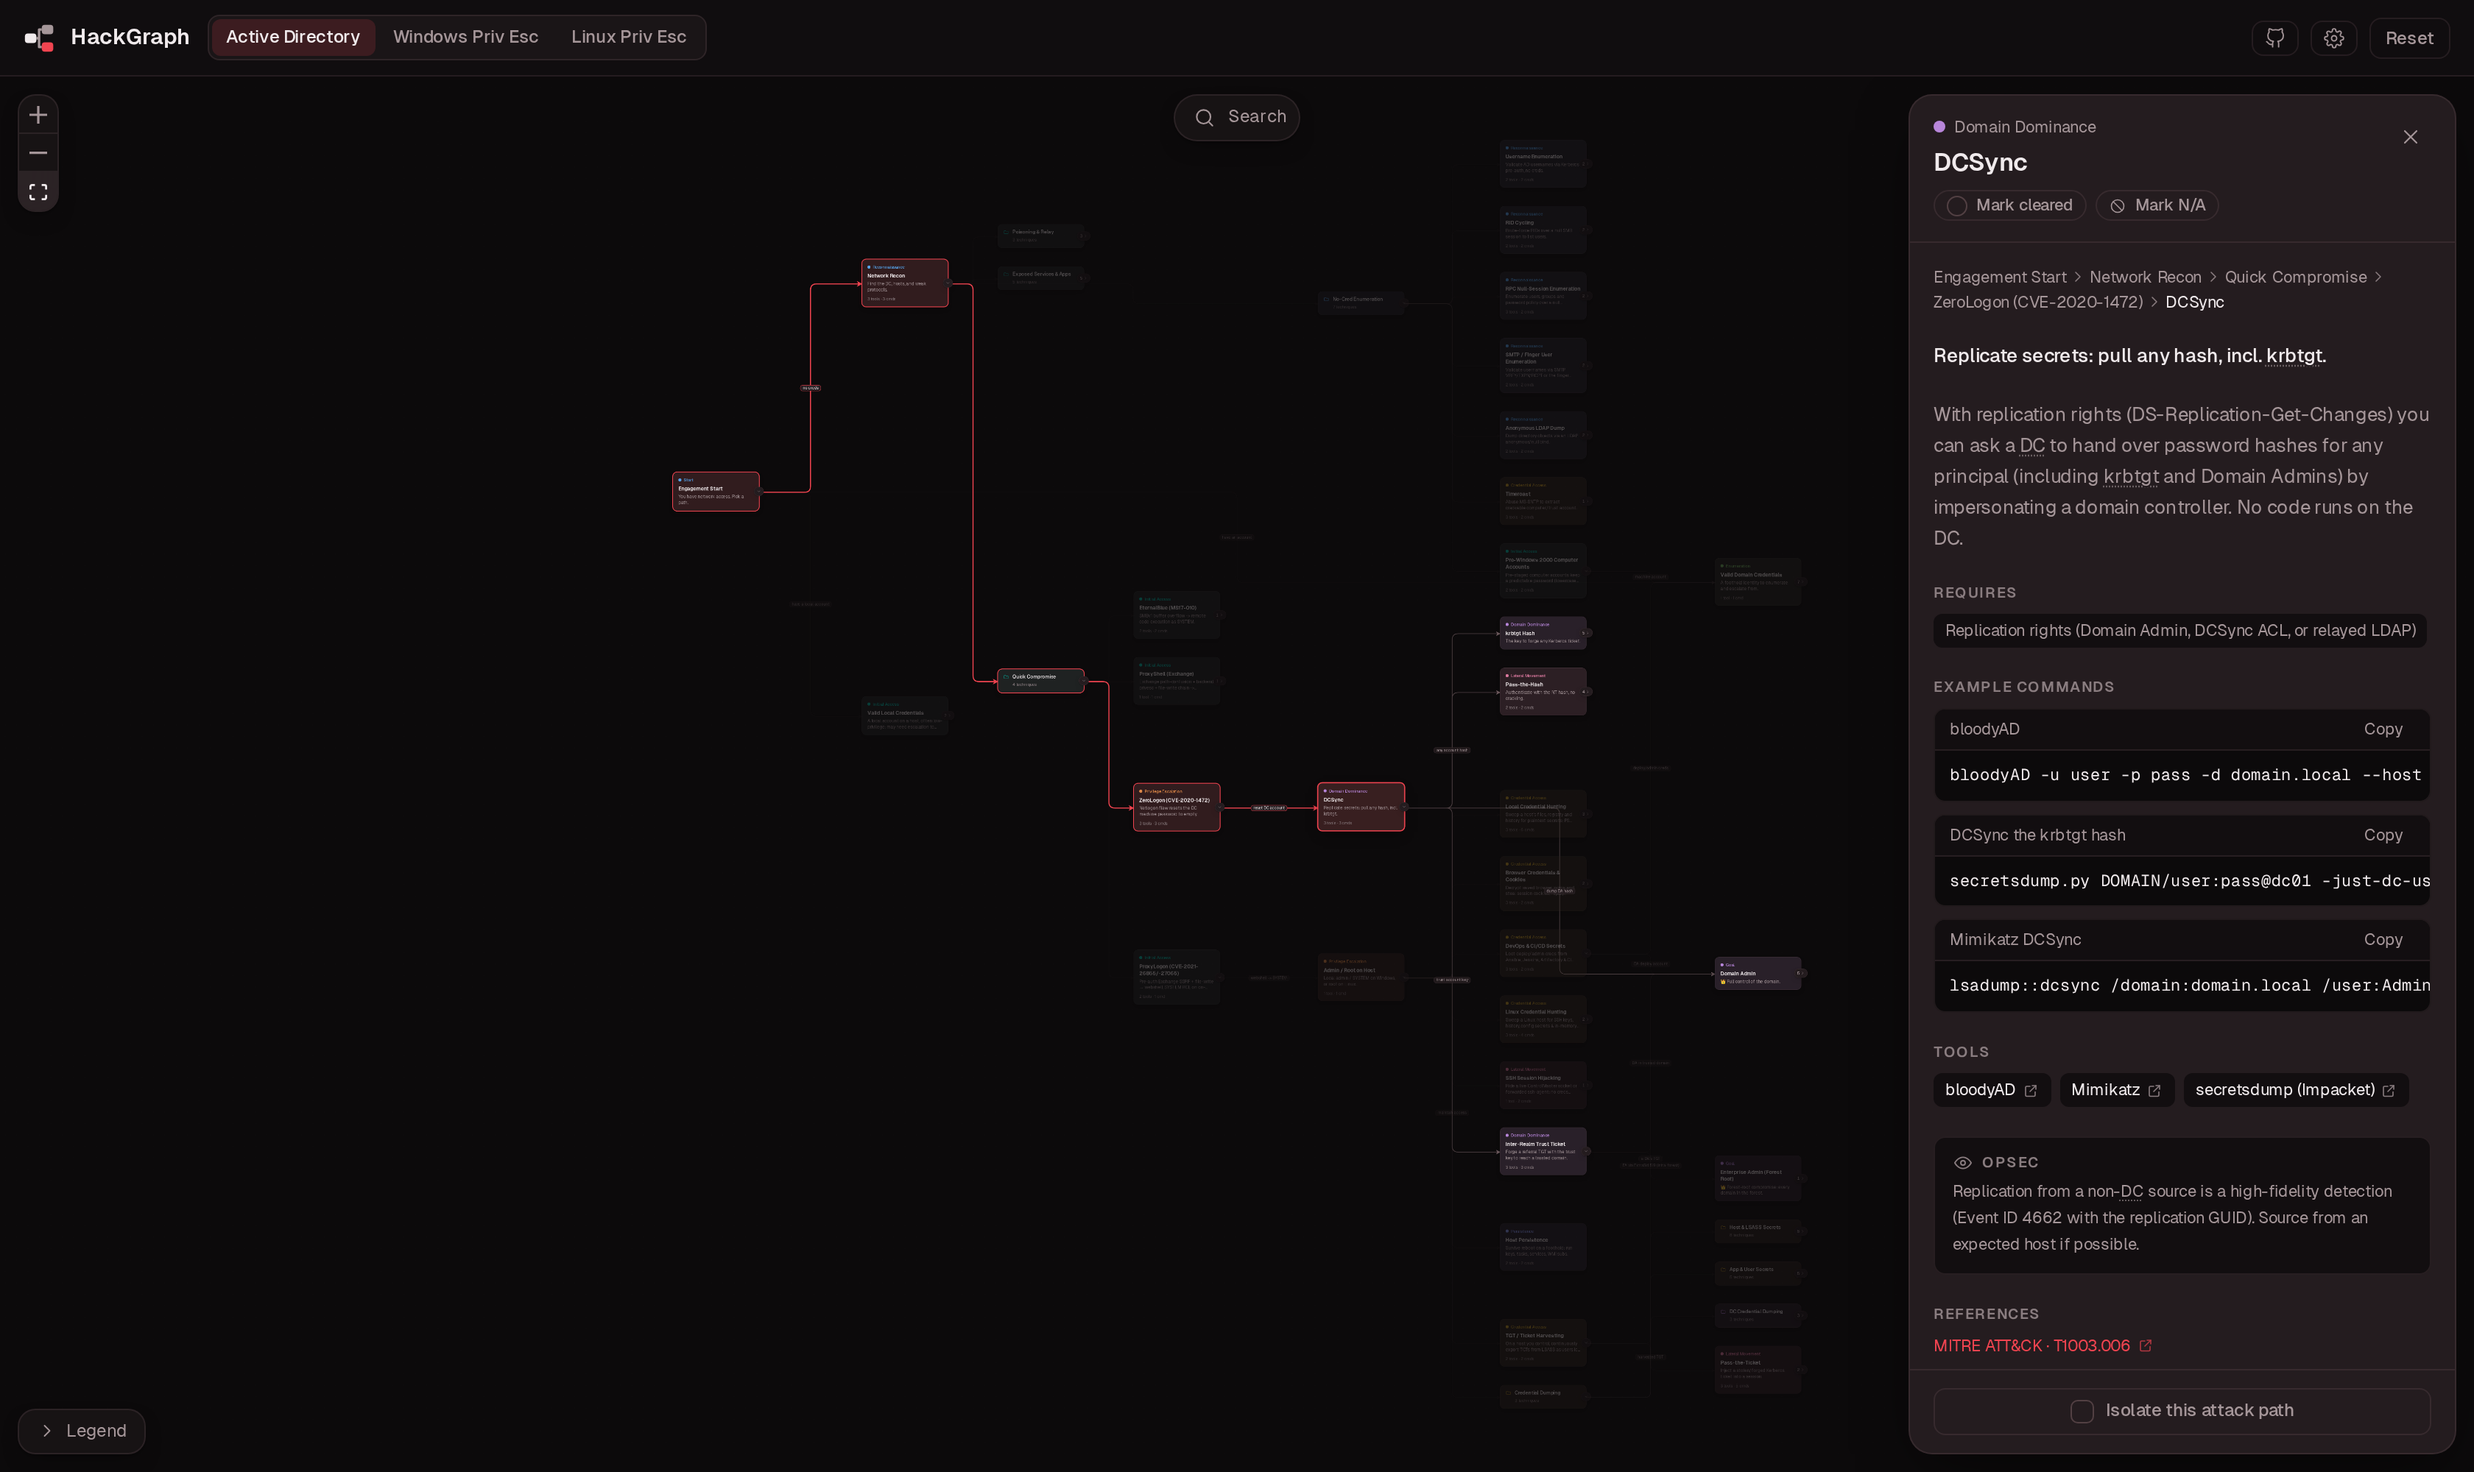
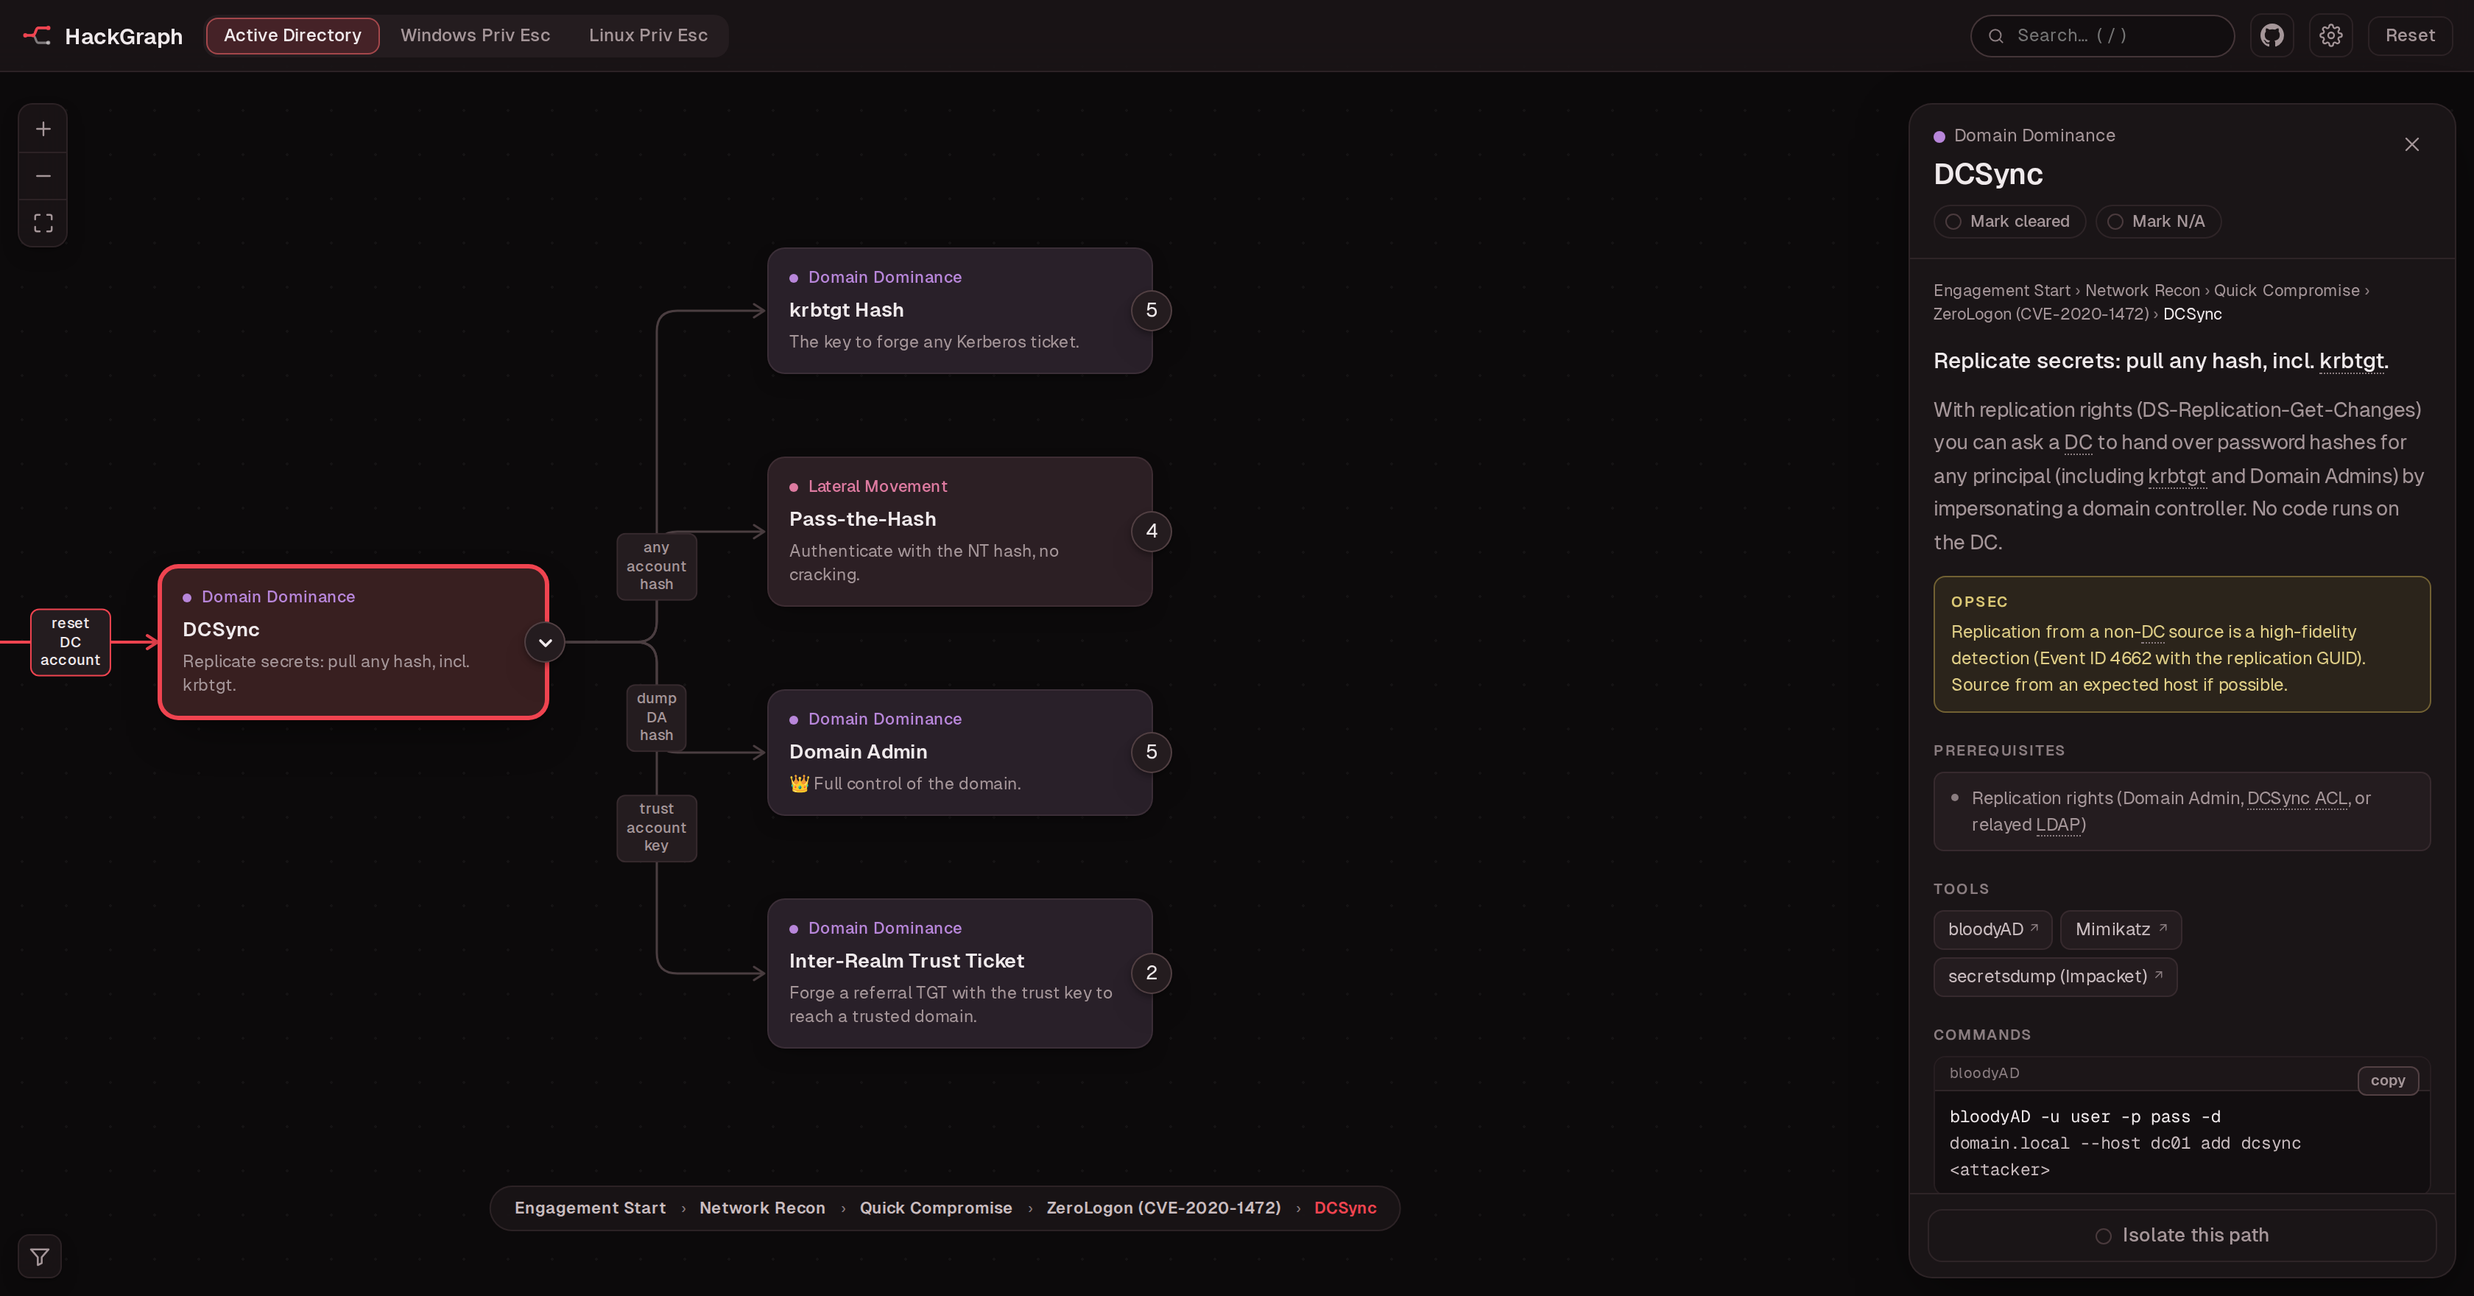
Replace the preview, tighten the blurb, drop CONTRIBUTING
The preview screenshot was the old React UI zoomed out far enough that every card
was an unreadable smudge, which showed the shape of a graph and none of the
content. Retaken on the current build at 1:1: DCSync selected, its panel open, and
the four techniques it leads to, with edge captions and card summaries legible.

Blurb: "until you reach the goal" said nothing, "how it gets caught" was a guess
at what OPSEC notes are, and "no backend, no framework, and nothing to install"
was three negatives where one positive does the job.

CONTRIBUTING.md removed at the owner's request, along with the link to it.

Claude-Session: https://claude.ai/code/session_015SLciyAkUxd9JzvkzH2Crz

diff --git a/README.md b/README.md
@@ -10,11 +10,11 @@ Interactive attack-path explorer for offensive security.
 
 ### [hackgraph.github.io](https://hackgraph.github.io/)
 
-<img src=".github/preview.png" alt="The Active Directory map with the DCSync technique panel open" width="900">
+<img src=".github/preview.png" alt="The Active Directory map: DCSync selected, its panel open, and the four techniques it leads to" width="900">
 
 </div>
 
-Start at a foothold and expand the graph one technique at a time until you reach the goal: Domain Admin, SYSTEM, or root. Every node is a short cheat-sheet with what the technique does, the tools, copy-paste commands, its MITRE ATT&CK id, what it needs, and how it gets caught. It all runs in your browser, with no backend, no framework, and nothing to install.
+Start from a foothold and expand one technique at a time toward Domain Admin, SYSTEM or root. Every node gives you what the technique does, the tools and copy-paste commands, its MITRE ATT&CK id, what it needs first, and how loud it is. Runs entirely in the browser.
 
 ## Maps
 
@@ -33,7 +33,7 @@ The app runs at http://localhost:5173. `npm run build` builds to `dist/` and `np
 
 ## Contributing
 
-The maps are plain data in `src/data/`, never the engine, so adding a technique or a whole new domain is just editing files. New maps appear in the header automatically. See [CONTRIBUTING.md](CONTRIBUTING.md).
+The maps are plain data in `src/data/`, never the engine, so adding a technique or a whole new domain is just editing files. New maps appear in the header automatically.
 
 ## Acknowledgements
 
